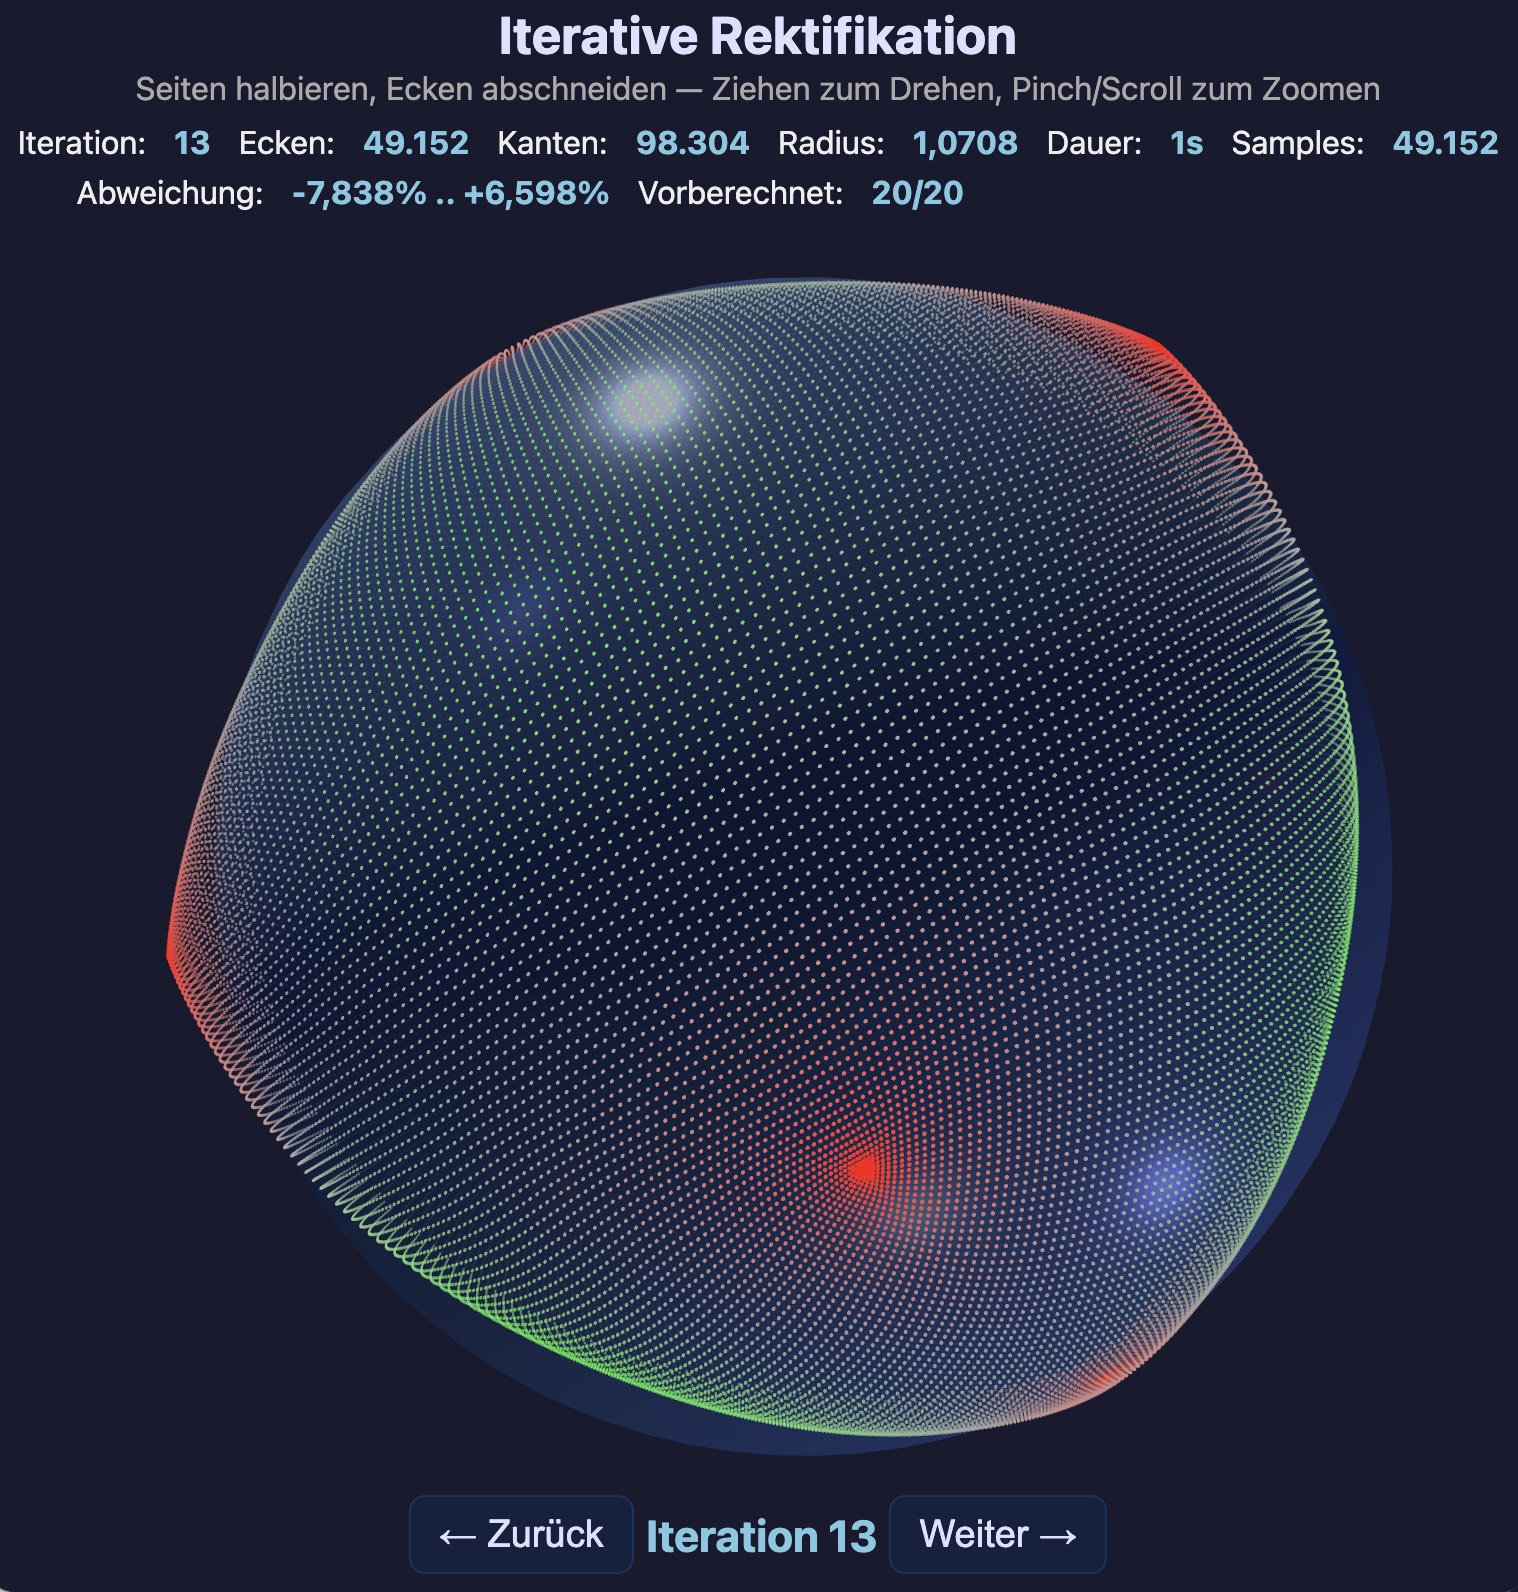
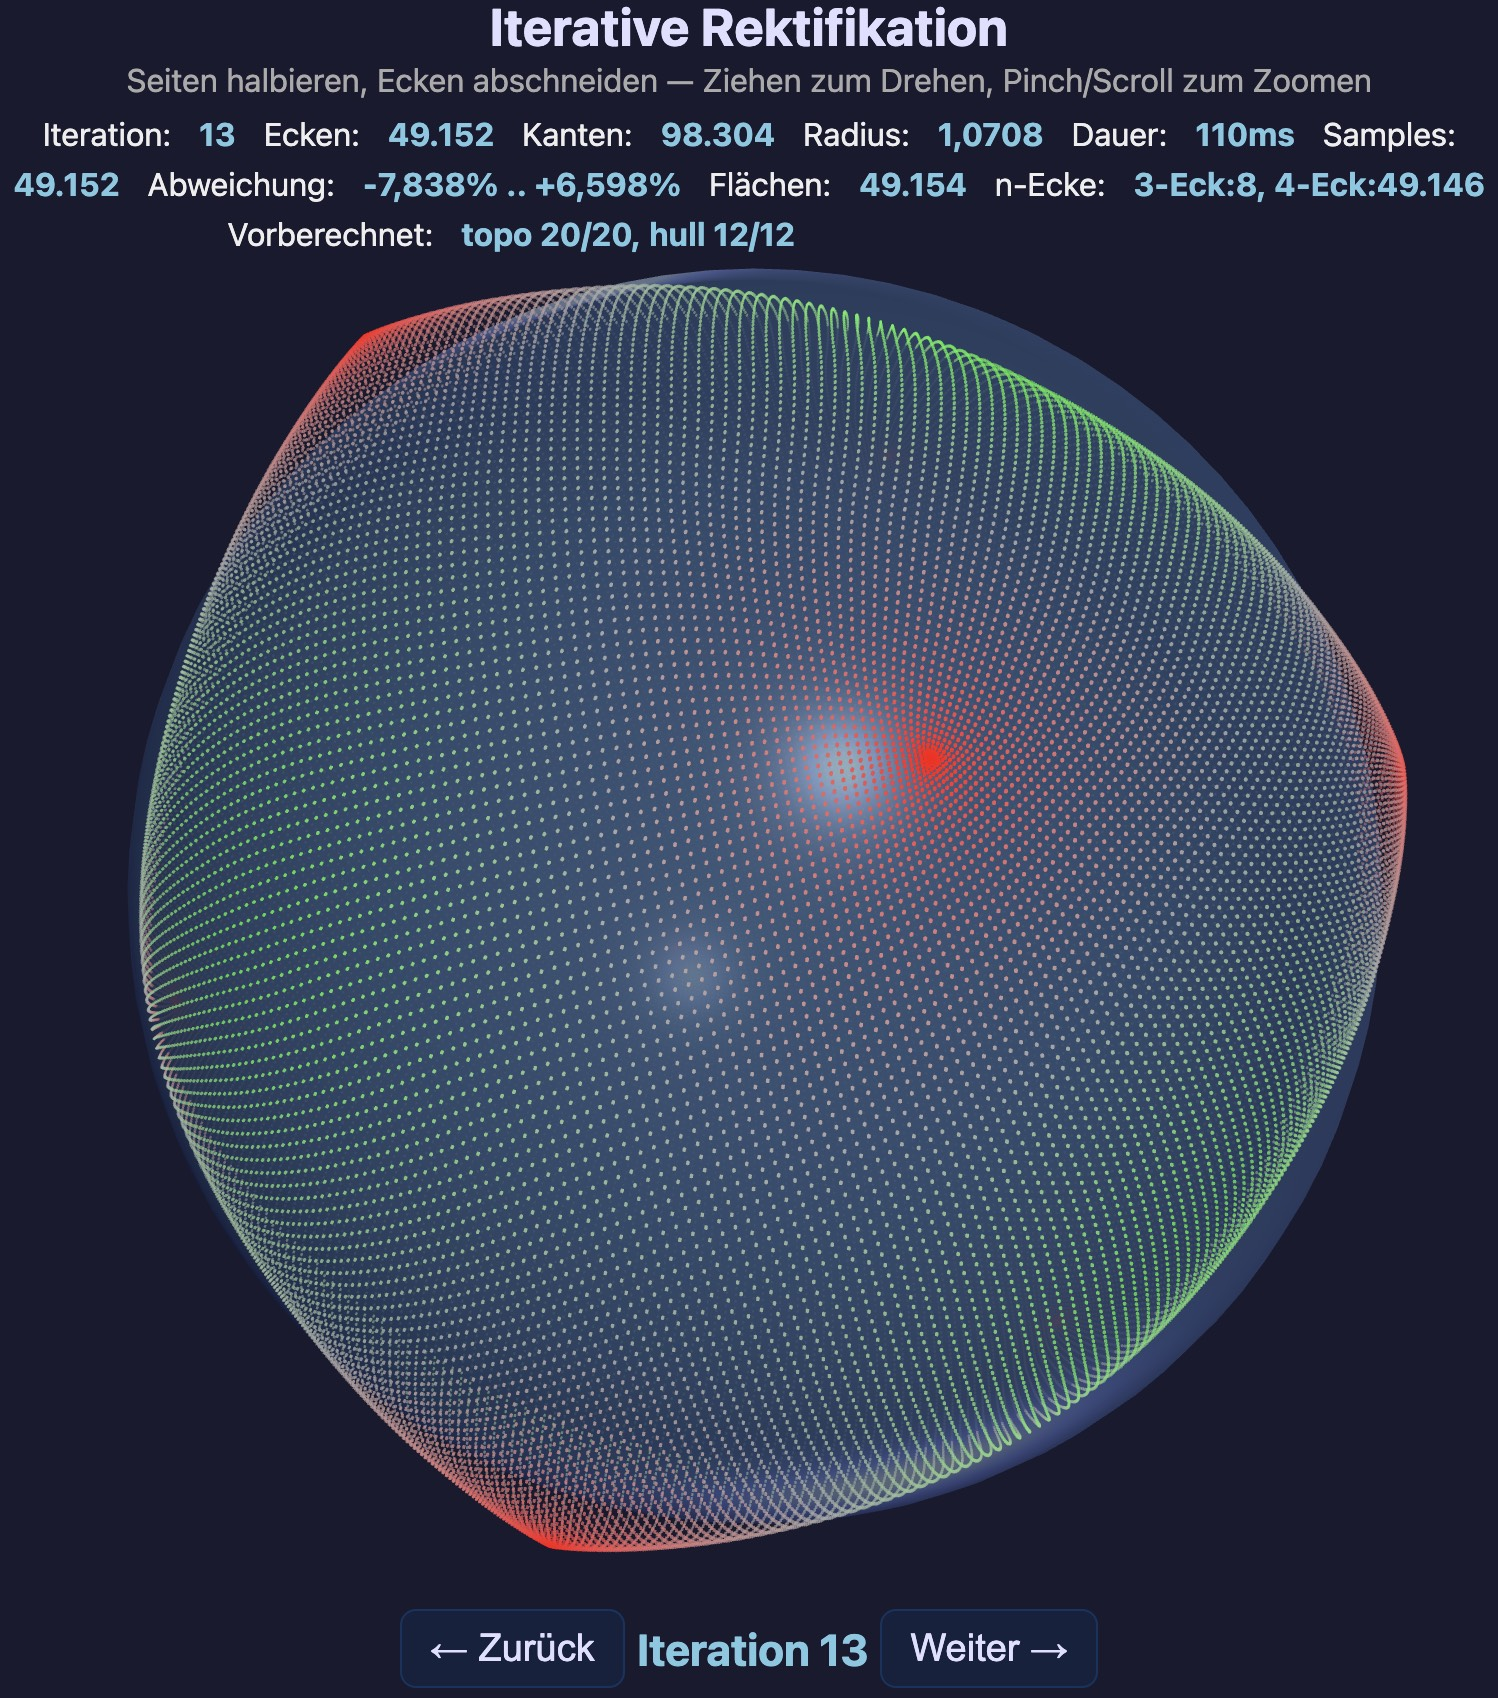
README-Screenshots aktualisiert: convex-hull.jpg und neue Topo-Variante
- topologische-rektifikation.jpg ersetzt polyedermodus.jpg (klarere Benennung)
- convex-hull.jpg in den Anwendungs-Abschnitt aufgenommen
- kugelmodus.jpg neu aus aktuellem Rendering konvertiert

diff --git a/README.md b/README.md
@@ -297,7 +297,11 @@ Die Anwendung zeigt den Körper in zwei Modi:
 
 - **Iteration 0–12 (Polyeder-Modus):** Halbtransparente Flächen mit weißen Kanten und farbcodierten Vertex-Punkten. Die Flächen werden in zwei Passes gerendert (Rückseite, dann Vorderseite) für korrektes Alpha-Blending. Beim Iterationswechsel wird fließend zwischen altem und neuem Körper überblendet (1s Cross-Fade mit Ease-in-out).
 
-![Polyeder-Modus mit Flächen, Kanten und Vertex-Punkten](polyedermodus.jpg)
+![Topologische Rektifikation mit Flächen, Kanten und Vertex-Punkten](topologische-rektifikation.jpg)
+
+In der Convex-Hull-Variante werden non-planare Vertex-Figuren in Dreiecke aufgespalten — die Topologie wechselt mit jeder Iteration:
+
+![Convex-Hull-Variante mit gemischten Polygonen](convex-hull.jpg)
 
 - **Ab Iteration 13 (Kugel-Modus):** Eine halbtransparente Best-Fit-Kugel als Referenz. Der Körper schrumpft natürlich mit jeder Iteration (Kantenmittelpunkte liegen näher am Zentrum als die Endpunkte). Nur noch farbcodierte Vertex-Punkte sind sichtbar — die Flächen und Kanten würden bei >50.000 Vertices den Browser überlasten. Punkte werden mit `depthTest: false` gerendert, damit auch die innerhalb der Kugel liegenden (grünen) sichtbar bleiben.
 
@@ -434,7 +438,7 @@ Die exakte Arithmetik nutzt aus, dass alle Vertex-Koordinaten dyadisch rational 
 | `regenerate.py` | Erzeugt `cube-rectification.html` aus `index.html` + `worker.js`: ersetzt den `new Worker(...)`-Aufruf durch eine Data-URL/Blob-URL-Variante, bettet den Worker-Code inline ein, inlinet Favicons als Base64 und ergänzt OG-Tags. |
 | `favicon.png` / `favicon-32.png` | Favicons (64×64 / 32×32, RGBA PNG mit transparentem Hintergrund) |
 | `og-image.jpg` | Open-Graph-Vorschaubild für WhatsApp / Telegram / Social Media (1920×1598, JPEG) |
-| `polyedermodus.jpg` / `kugelmodus.jpg` | Screenshots für die README (Polyeder-Modus bei niedriger Iteration, Kugel-Modus bei hoher Iteration) |
+| `topologische-rektifikation.jpg` / `convex-hull.jpg` / `kugelmodus.jpg` | Screenshots für die README (Topo-Polyeder-Modus, Convex-Hull-Variante, Topo-Kugel-Modus) |
 
 ### Lokal starten
 